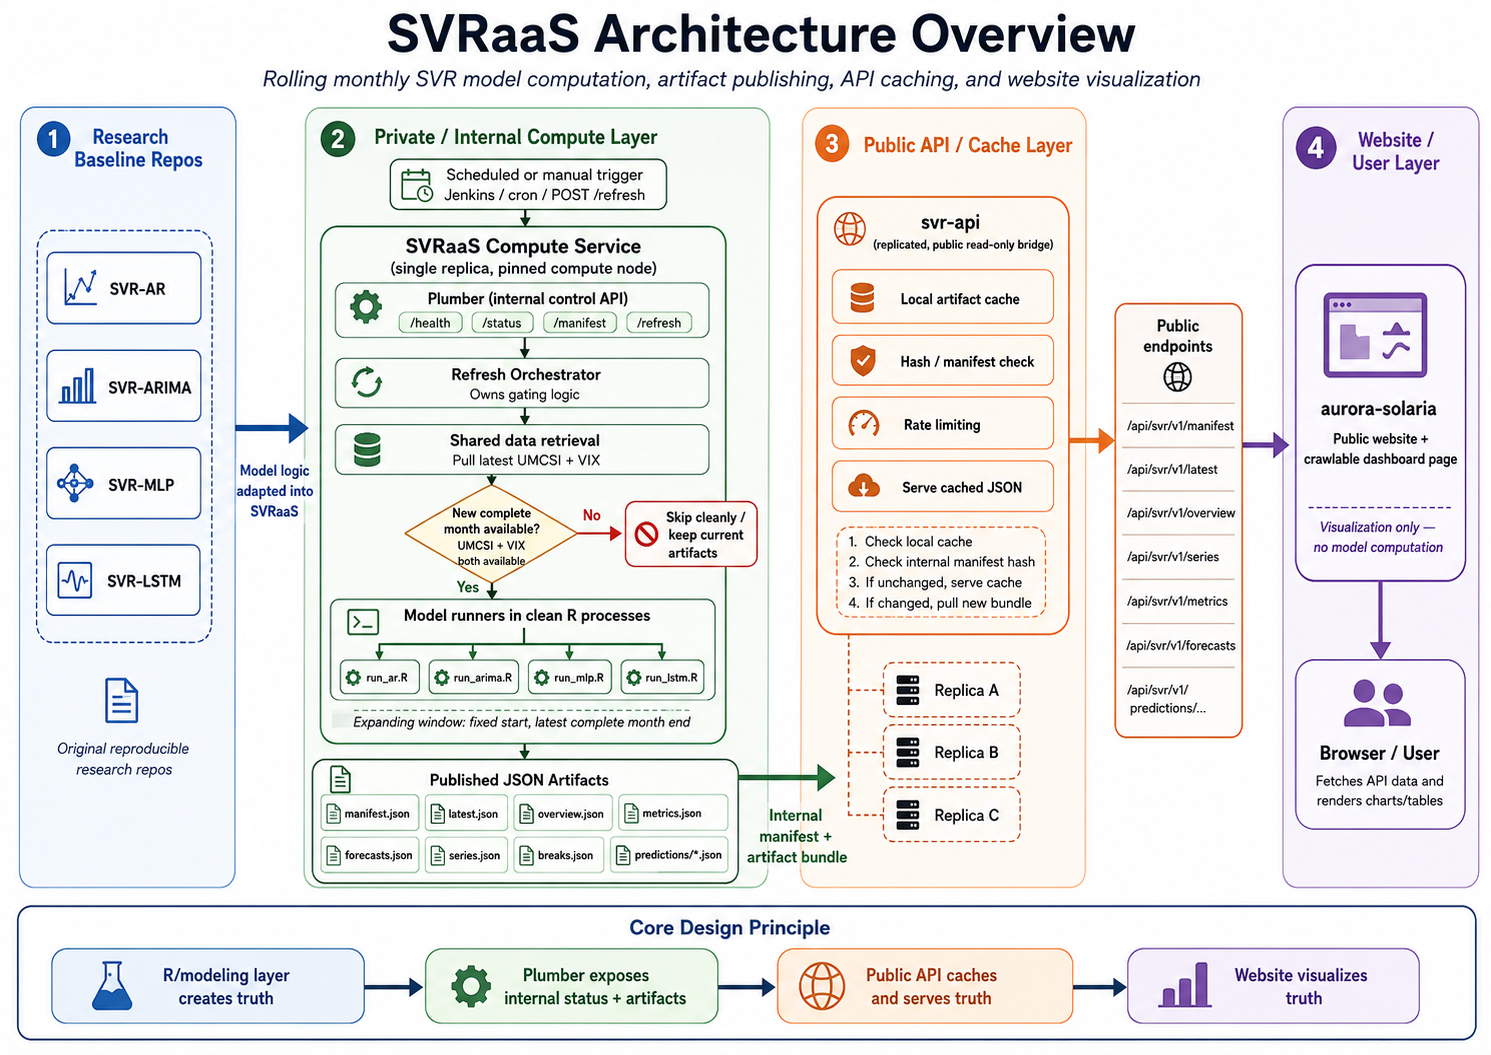
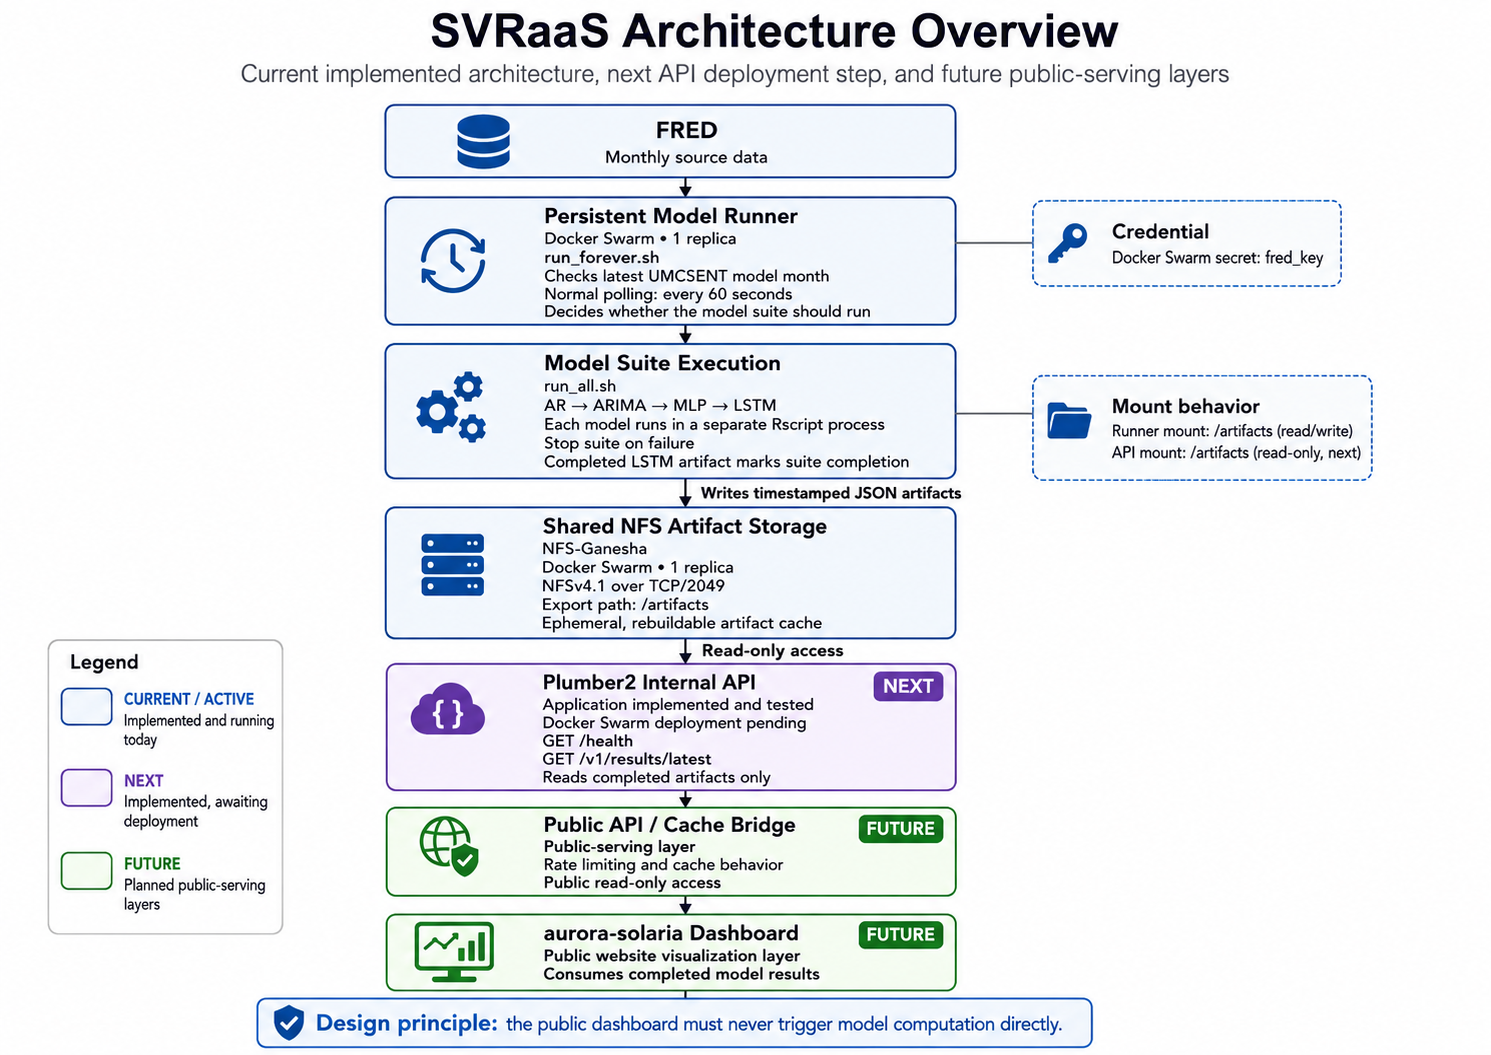
docs: refresh architecture diagrams

diff --git a/docs/architecture.md b/docs/architecture.md
@@ -1,5 +1,9 @@
 # SVRaaS Architecture
 
+## Diagram
+
+![SVRaaS architecture overview](images/svraas-architecture-overview.png)
+
 ## Purpose
 
 SVRaaS is the deployment and service layer for the Sentiment–Volatility Ratio modeling project.
